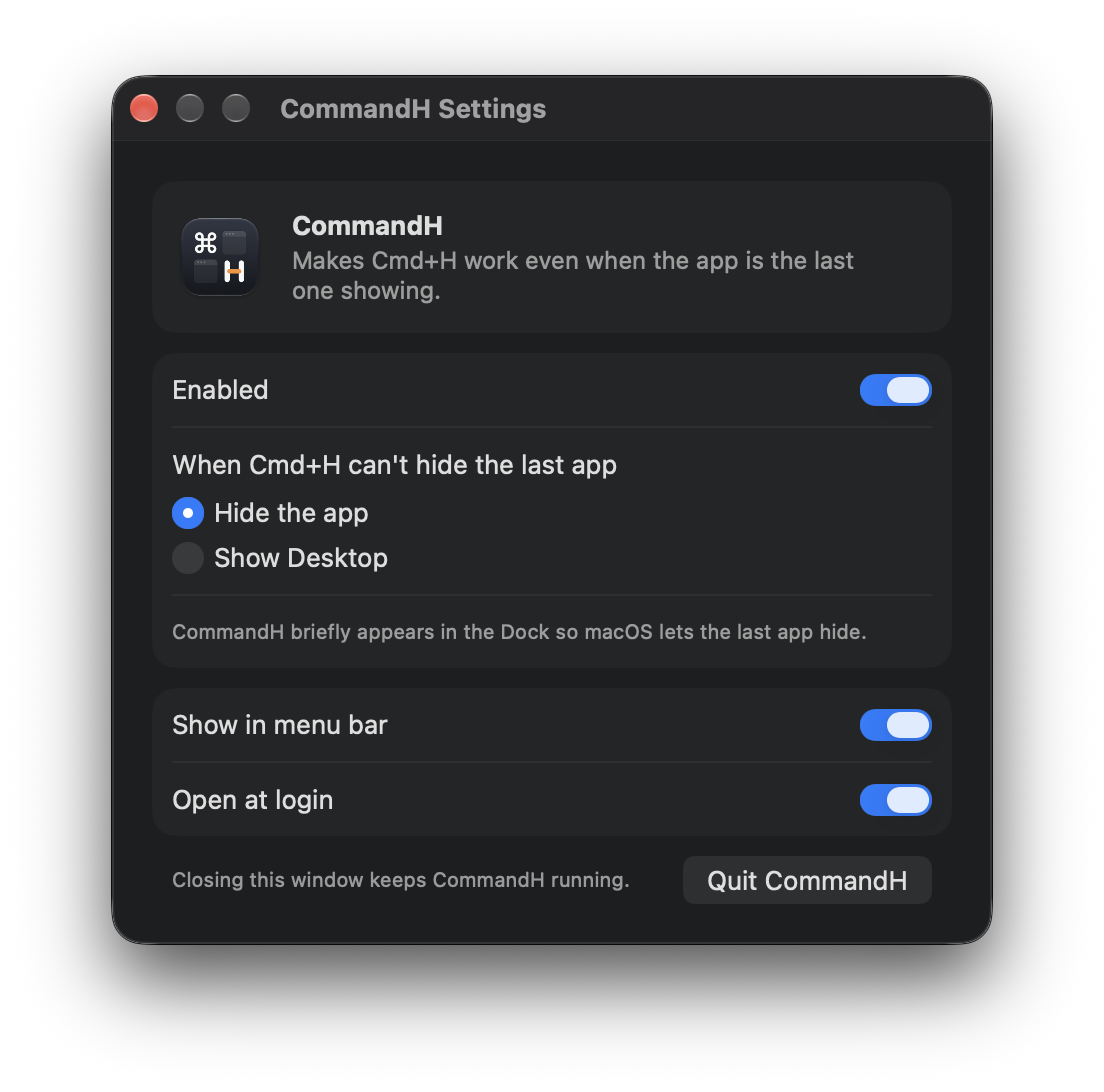
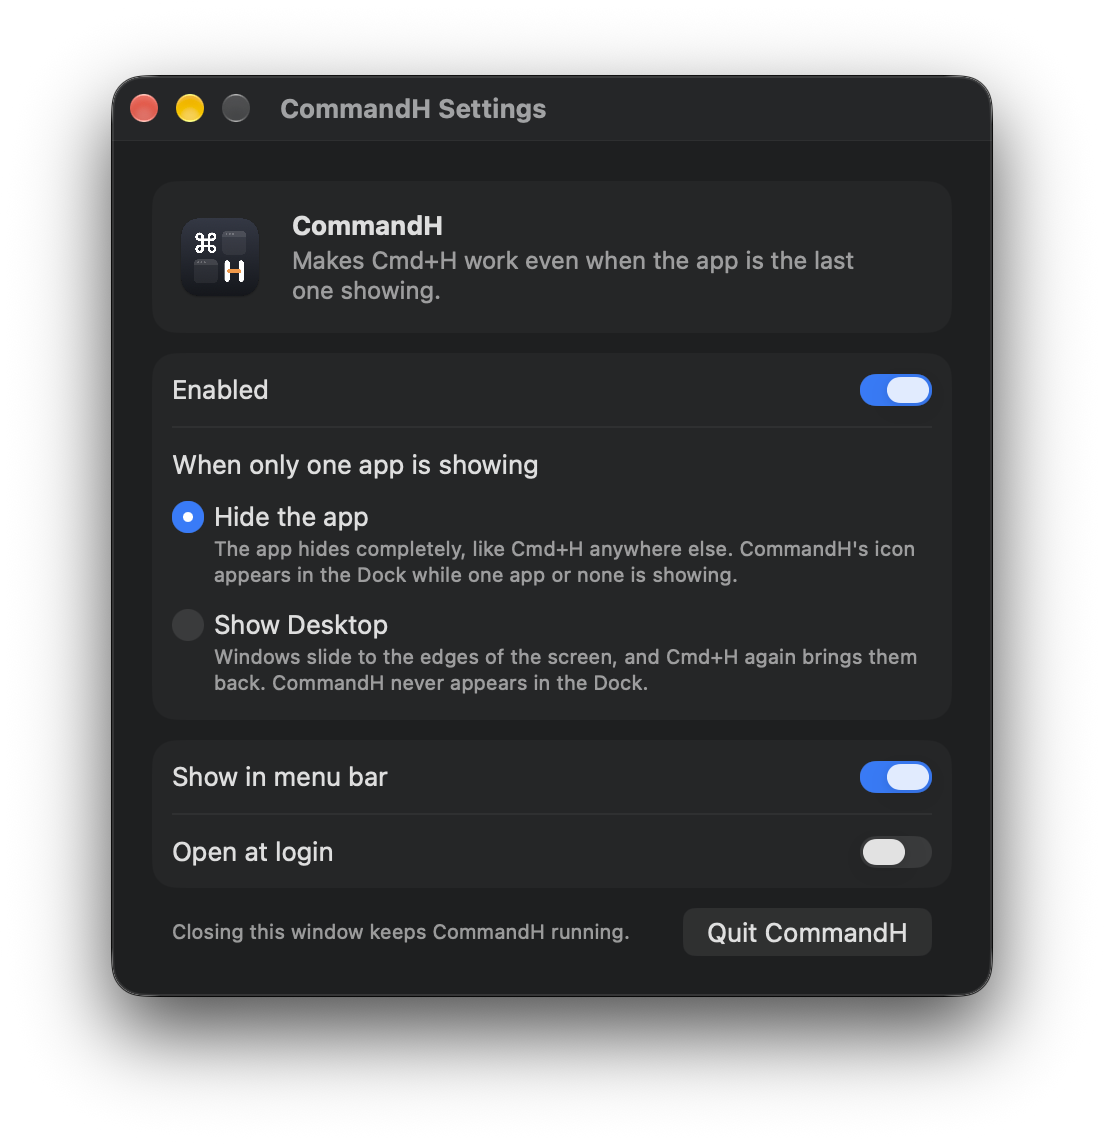
Describe both hide methods in settings; fix menu bar re-enable crash
Settings: the picker is now "When only one app is showing" and each option
carries its own description, so the Dock icon vs. no-Dock trade-off is
visible before choosing. The App Store build's caption is reworded too.

Crash: turning "Show in menu bar" back on set statusItem.isVisible, which
makes AppKit write its own defaults key, which posted didChangeNotification
and re-entered refreshMenu before isVisible reported the new value. That
looped until the stack overflowed. refreshMenu now guards against it.

README settings row, README settings screenshots, and the App Store settings
screenshot are updated to match.

Claude-Session: https://claude.ai/code/session_01KpkAEg9V1CsPjzVNFbUjh1

diff --git a/Sources/SettingsView.swift b/Sources/SettingsView.swift
@@ -42,21 +42,21 @@ struct SettingsView: View {
                 Toggle("Enabled", isOn: $enabled)
                 #if APP_STORE
                 // Store screenshots show this window, and App Store copy never says "macOS".
-                Text("CommandH briefly appears in the Dock so your last app can hide.")
+                Text("Cmd+H hides the last app completely. While one app or none is showing, CommandH's icon appears in the Dock. That's what lets the last app hide.")
                     .font(.caption)
                     .foregroundStyle(.secondary)
                 #else
-                Picker("When Cmd+H can't hide the last app", selection: $method) {
-                    Text("Hide the app").tag(HideMethod.hideApp)
-                    Text("Show Desktop").tag(HideMethod.showDesktop)
+                // Both options stay described so the trade-off is visible before choosing.
+                Picker("When only one app is showing", selection: $method) {
+                    methodOption("Hide the app",
+                                 "The app hides completely, like Cmd+H anywhere else. CommandH's icon appears in the Dock while one app or none is showing.")
+                        .tag(HideMethod.hideApp)
+                    methodOption("Show Desktop",
+                                 "Windows slide to the edges of the screen, and Cmd+H again brings them back. CommandH never appears in the Dock.")
+                        .tag(HideMethod.showDesktop)
                 }
                 .pickerStyle(.radioGroup)
                 .disabled(!enabled)
-                Text(method == .hideApp
-                     ? "CommandH briefly appears in the Dock so macOS lets the last app hide."
-                     : "Windows slide to the edges of the screen. Press Cmd+H again to bring them back. No Dock icon.")
-                    .font(.caption)
-                    .foregroundStyle(.secondary)
                 #endif
             }
 
@@ -85,6 +85,17 @@ struct SettingsView: View {
         .focusEffectDisabled()
         .frame(width: 440)
         .fixedSize(horizontal: false, vertical: true)
+    }
+
+    private func methodOption(_ title: String, _ detail: String) -> some View {
+        VStack(alignment: .leading, spacing: 2) {
+            Text(title)
+            Text(detail)
+                .font(.caption)
+                .foregroundStyle(.secondary)
+                .fixedSize(horizontal: false, vertical: true)
+        }
+        .padding(.vertical, 2)
     }
 
     private func setOpenAtLogin(_ on: Bool) {

diff --git a/Sources/main.swift b/Sources/main.swift
@@ -87,6 +87,7 @@ private final class HotKey {
 final class AppDelegate: NSObject, NSApplicationDelegate, NSWindowDelegate {
     private var statusItem: NSStatusItem!
     private var statusVisibilityObservation: NSKeyValueObservation?
+    private var settingStatusVisibility = false
     private var enabledItem: NSMenuItem!
     private var hideAppItem: NSMenuItem?
     private var showDesktopItem: NSMenuItem?
@@ -337,7 +338,14 @@ final class AppDelegate: NSObject, NSApplicationDelegate, NSWindowDelegate {
     }
 
     private func refreshMenu() {
-        if statusItem.isVisible != showInMenuBar { statusItem.isVisible = showInMenuBar }
+        // Setting isVisible makes AppKit write its own defaults key, which posts
+        // didChangeNotification and lands back here before isVisible reads the new
+        // value. Without the guard that loops until the stack overflows.
+        if !settingStatusVisibility && statusItem.isVisible != showInMenuBar {
+            settingStatusVisibility = true
+            statusItem.isVisible = showInMenuBar
+            settingStatusVisibility = false
+        }
         enabledItem.state = enabled ? .on : .off
         hideAppItem?.state = method == .hideApp ? .on : .off
         showDesktopItem?.state = method == .showDesktop ? .on : .off

diff --git a/README.md b/README.md
@@ -83,7 +83,7 @@ Open the settings window by opening CommandH from your Applications folder (or S
 | Setting | What it does |
 |---|---|
 | **Enabled** | Turns CommandH on or off without quitting it. When off, Cmd+H behaves like stock macOS. |
-| **When Cmd+H can't hide the last app** | Chooses **Hide the app** or **Show Desktop**. See [the comparison above](#two-ways-to-handle-the-last-app). |
+| **When only one app is showing** | Chooses **Hide the app** or **Show Desktop**. See [the comparison above](#two-ways-to-handle-the-last-app). |
 | **Show in menu bar** | Shows or removes the ⌘H icon in your menu bar. With it off, CommandH runs invisibly. Open CommandH from your Applications folder to get back to this window. |
 | **Open at login** | Starts CommandH automatically when you log in. It starts quietly, without opening this window. |
 | **Quit CommandH** | Actually quits the app. Closing the window (or pressing Cmd+Q) only closes the window and leaves CommandH running. |
